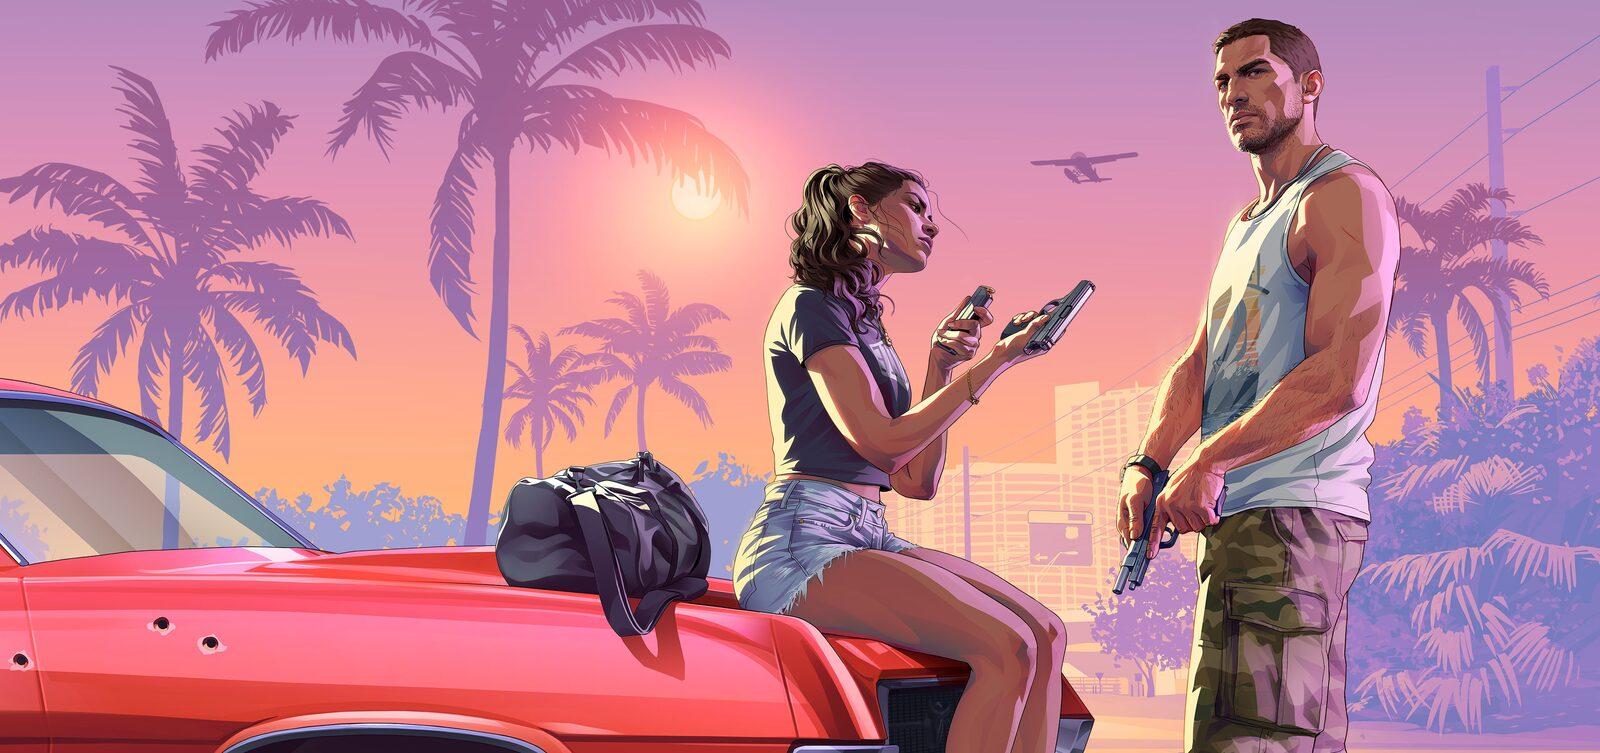
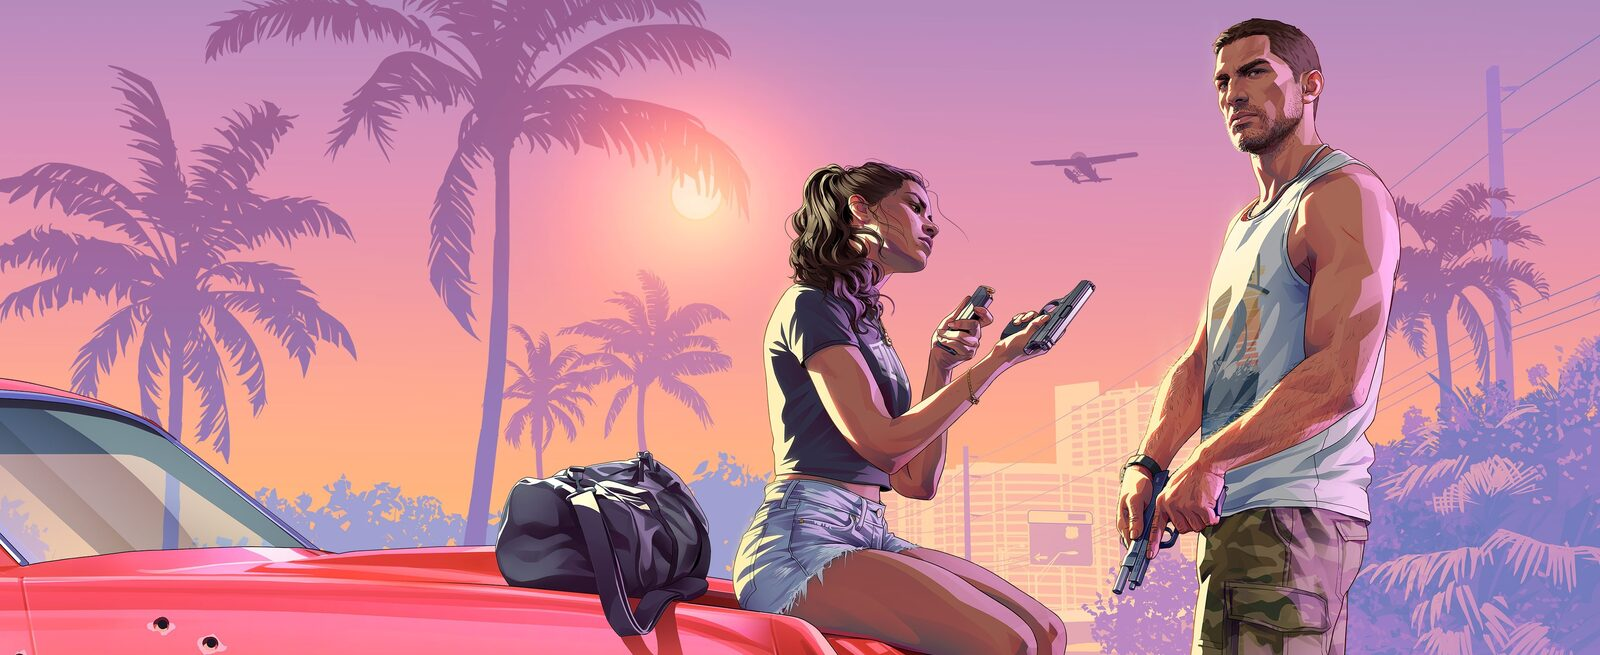
Héros : Lock and Load (voiture rouge) + compte à rebours GTA VI
Nouvelle clé d'art fournie par le propriétaire (Jason et Lucia assis sur la
voiture rouge, palmiers, coucher de soleil, avion) et compte à rebours dans
le héros lui-même.

Images
- public/gta6-jason-lucia-hero.jpg — panoramique 1600×655 (≈172 Ko) pour
  ordinateur/tablette ;
- public/gta6-jason-lucia-hero-portrait.jpg — recadrage portrait 900×1505
  (≈173 Ko) pour téléphone : le panoramique 2,4:1 ne peut pas être rogné
  directement en vertical sans perdre le sujet. Le portrait garde le
  soleil et les palmiers derrière le voile à gauche, et Lucia en amorce à
  droite sans recouvrir les CTA ;
- object-position affiné : bureau 30%, mobile 28%/22% sur le portrait.

Compte à rebours
- Bloc 4 chiffres (JRS / HRS / MIN / SEC) inséré entre le texte du héros et
  les CTA, dans le style HUD du site (cadre cyan, numéros tabulaires) ;
- cible = 19 novembre 2026 minuit, fuseau du visiteur ; tick à la seconde ;
- libellés FR (« Compte à rebours », « Sortie mondiale le 19 novembre… »)
  et EN ajoutés dans les dictionnaires ; fallback « DISPONIBLE MAINTENANT /
  OUT NOW » après la date ;
- utilise countdownParts et gameReleases déjà en place dans releasesData ;
  la bande « le plus attendu » reste là (elle suit la file automatique du
  calendrier), le compte à rebours du héros est dédié à GTA VI.

Vérifié : captures 1280×900 (EN+FR), 390×844 (EN+FR), vite build,
check:light-news, check:light-mobile-menu, check:nav, check:i18n,
check:large-screen verts.

diff --git a/src/pages/Home.jsx b/src/pages/Home.jsx
@@ -11,6 +11,7 @@ import '../home-live.css';
 import ScrollAutoplayVideo from '../components/ScrollAutoplayVideo';
 import { Arrow } from '../components/Arrow';
 import { AwaitedBand, clockOffset } from '../components/ReleasesCalendar';
+import { countdownParts, gameReleases } from '../releasesData';
 import { dailyNewsListing, editionDate } from '../news/daily/2026-11-18';
 import { viceHeroImage, viceHeroPortraitImage } from '../theme/viceTheme';
 
@@ -21,6 +22,21 @@ const HomeQuizBand = lazy(() => import('./HomeQuizBand'));
 // Le paramètre d'URL `?at=` (horloge simulée du bandeau « le plus attendu »)
 // est partagé avec la page calendrier complet via clockOffset().
 const CLOCK_OFFSET = clockOffset();
+// Compte à rebours GTA VI dans le héros : cible le 19 novembre 2026
+// (minuit, fuseau du visiteur — la date Rockstar n'ayant pas d'horaire annoncé).
+const GTA6_RELEASE = gameReleases.find((r) => r.slug === 'grand-theft-auto-vi');
+const useGta6Countdown = (offset) => {
+  const [now, setNow] = useState(() => new Date(Date.now() + offset));
+  useEffect(() => {
+    const t = window.setInterval(() => setNow(new Date(Date.now() + offset)), 1000);
+    return () => window.clearInterval(t);
+  }, [offset]);
+  if (!GTA6_RELEASE) return { parts: null, out: false };
+  const target = new Date(GTA6_RELEASE.year ?? 2026, (GTA6_RELEASE.month ?? 11) - 1, GTA6_RELEASE.day ?? 19, 0, 0, 0);
+  const out = now.getTime() >= target.getTime();
+  return { parts: out ? null : countdownParts(GTA6_RELEASE, now), out };
+};
+
 
 const reels = [
   { id: '91eqLm2Hy9k', label: 'REEL 01' },
@@ -209,6 +225,10 @@ export default function Home() {
   const labelParts = (t.home.featured.label1 || 'ÉPISODES À LA UNE').split(' / ');
   const labelTitle = labelParts[1] || labelParts[0] || 'ÉPISODES À LA UNE';
 
+  const gta = useGta6Countdown(0);
+  const ctaCountdown = t.home.countdown || {};
+  const ctaUnits = ctaCountdown.units || { days:'JRS', hours:'HRS', minutes:'MIN', seconds:'SEC' };
+
   return (
     <>
       <section className="hero" id="top">
@@ -235,6 +255,23 @@ export default function Home() {
           <p className="eyebrow"><span className="live-dot" /> {t.home.eyebrow}</p>
           <h1>{t.home.h1a}<br /><em>{t.home.h1b}</em></h1>
           <p className="hero-text">{t.home.heroText}</p>
+          {gta.parts || gta.out ? (
+            <div className={`hero-countdown${gta.out ? ' is-out' : ''}`} role="timer" aria-label={ctaCountdown.eyebrow || 'Countdown'}>
+              <p className="hero-countdown-eyebrow">
+                <span className="live-dot" aria-hidden="true" /> {ctaCountdown.eyebrow} · GTA VI
+              </p>
+              <div className="hero-countdown-grid">
+                {gta.out
+                  ? <strong className="hero-countdown-out">{ctaCountdown.out}</strong>
+                  : [['days', ctaUnits.days], ['hours', ctaUnits.hours], ['minutes', ctaUnits.minutes], ['seconds', ctaUnits.seconds]].map(([k, lbl]) => (
+                      <span className="hero-countdown-unit" key={k}>
+                        <b>{String(gta.parts[k]).padStart(2,'0')}</b><i>{lbl}</i>
+                      </span>
+                    ))}
+              </div>
+              <p className="hero-countdown-meta">{ctaCountdown.date}</p>
+            </div>
+          ) : null}
           {isLive && (
             <div className="hero-live-notice">
               <p className="hero-live-status" role="status"><span aria-hidden="true" /> {liveHeroCopy.status}</p>

diff --git a/src/styles.css b/src/styles.css
@@ -2007,12 +2007,11 @@ img{max-width:100%}
   [dir=\"rtl\"] .mobile-menu-hud{right:auto;left:0}
 
   .hero{padding:104px 0 92px}
-  /* Cadrage portrait du héros : Lucia décalée à droite, soleil et palmiers
-     derrière le voile à gauche. L'image fournie est un panoramique très large
-     (2,1:1) — tout cadrage vertical coupe forcément Jason ou la voiture, mais
-     il faut éviter l'effet « personnage excentré à droite » : ce point
-     d'accroche ramène assez de décor à gauche sans cacher Lucia. */
-  .hero-bg{object-position:30% 20%}
+  /* Cadrage portrait du héros : Lucia à droite, soleil et palmiers derrière
+     le voile à gauche, sac/voiture en bas. L'image fournie est un panoramique
+     très large (2,4:1) — aucun cadrage vertical ne peut garder les deux
+     personnages, mais le héros ne doit pas sembler vide à gauche. */
+  .hero-bg{object-position:28% 22%}
   /* 34px de plancher (au lieu de 36) : sous 375px de large, « TOUTE L’ACTU »
      ne tenait plus dans la colonne et le titre du héros passait à quatre
      lignes. */
@@ -2343,3 +2342,20 @@ img{max-width:100%}
 .search-result-card.is-finished h2,
 .search-result-card.is-finished p { color: var(--dim); }
 .nav-search-result.is-finished strong { color: var(--dim); }
+
+/* Compte à rebours GTA VI dans le héros — grille 4 chiffres, néon cyan sur
+   fond semi-transparent, comme les cadres HUD du reste du site. */
+.hero-countdown{margin-top:28px;max-width:560px}
+.hero-countdown-eyebrow{display:inline-flex;align-items:center;gap:10px;margin:0 0 12px;font:500 10px var(--mono);letter-spacing:.24em;text-transform:uppercase;color:var(--yellow);text-shadow:0 0 14px rgba(255,214,25,.25)}
+.hero-countdown-grid{display:grid;grid-template-columns:repeat(4,minmax(0,1fr));gap:10px}
+.hero-countdown-unit{padding:14px 8px 10px;text-align:center;background:rgba(5,6,15,.55);border:1px solid rgba(34,211,238,.35);box-shadow:inset 0 0 22px rgba(34,211,238,.05), 0 0 18px rgba(0,0,0,.4)}
+.hero-countdown-unit b{display:block;color:var(--cyan);font:800 clamp(28px,4.6vw,40px)/1 var(--display);letter-spacing:.02em;text-shadow:0 0 18px rgba(34,211,238,.45);font-variant-numeric:tabular-nums}
+.hero-countdown-unit i{display:block;margin-top:8px;color:var(--dim);font:9px var(--mono);letter-spacing:.18em;font-style:normal}
+.hero-countdown-out{grid-column:1/-1;padding:16px;color:var(--yellow);font:800 clamp(26px,4.4vw,36px)/1 var(--display);letter-spacing:.08em;text-align:center;text-shadow:0 0 18px rgba(255,214,25,.35);background:rgba(5,6,15,.55);border:1px solid rgba(255,214,25,.45)}
+.hero-countdown-meta{margin:10px 0 0;color:rgba(232,235,255,.6);font:10px var(--mono);letter-spacing:.16em;text-transform:uppercase}
+.hero-countdown.is-out .hero-countdown-meta{color:var(--yellow)}
+@media(max-width:800px){
+  .hero-countdown{margin-top:22px;max-width:none}
+  .hero-countdown-grid{gap:8px}
+  .hero-countdown-unit{padding:12px 4px 8px}
+}

diff --git a/src/i18n/translations.js b/src/i18n/translations.js
@@ -191,7 +191,7 @@ export const translations = {
       h1a: 'ALL THE NEWS,',
       h1b: 'GAMING, TECH & CINEMA.',
       heroText: 'Reviews, previews, e-sport, tech and pop culture — the show for the community that never stopped playing. Every drop, every round, every story worth playing.',
-      watchEpisodes: 'Watch the episodes',
+      watchEpisodes: 'Watch the episodes',countdown: { eyebrow: 'Countdown', title: 'Grand Theft Auto VI', date: 'Worldwide launch November 19, 2026 · PS5 / Xbox Series', units: { days:'DAYS', hours:'HRS', minutes:'MIN', seconds:'SEC' }, out:'OUT NOW' },
       enterShow: 'See the news',
       hud: { subs: 'YOUTUBE SUBS', community: 'IG COMMUNITY', reasons: 'REASONS TO PLAY', scroll: 'SCROLL' },
       ticker: ['GAMING', 'E-SPORT', 'CINEMA', 'TECH', 'POP CULTURE'],
@@ -660,7 +660,7 @@ export const translations = {
       eyebrow: 'L’émission gaming & pop culture de l’Algérie',
       h1a: 'TOUTE L’ACTU', h1b: 'GAMING, TECH ET CINÉMA.',
       heroText: 'Tests, avant-premières, e-sport, tech et pop culture — l’émission de la communauté qui n’a jamais arrêté de jouer. Chaque sortie, chaque round, chaque histoire qui mérite d’être jouée.',
-      watchEpisodes: 'Regarder les épisodes',
+      watchEpisodes: 'Regarder les épisodes',countdown: { eyebrow: 'Compte à rebours', title: 'Grand Theft Auto VI', date: 'Sortie mondiale le 19 novembre 2026 · PS5 / Xbox Series', units: { days:'JRS', hours:'HRS', minutes:'MIN', seconds:'SEC' }, out:'DISPONIBLE MAINTENANT' },
       enterShow: 'Voir les actus',
       hud: { subs: 'ABONNÉS YOUTUBE', community: 'COMMUNAUTÉ IG', reasons: 'RAISONS DE JOUER', scroll: 'DÉFILER' },
       ticker: ['GAMING', 'E-SPORT', 'CINÉMA', 'TECH', 'POP CULTURE'],

diff --git a/src/theme/viceTheme.js b/src/theme/viceTheme.js
@@ -12,18 +12,19 @@
  * par ce retrait.
  *
  * ⚠ Hommage NON OFFICIEL : Let's Play n'est affilié ni à Rockstar Games ni à
- * Take-Two. Les visuels sont fournis par le propriétaire du site (Jason et Lucia
- * devant la station-service, avant eux la vue nocturne de Vice City) : ce ne
- * sont pas des images générées, et il ne faut pas les remplacer par une vue de
- * jour produite pour un skin (essayé, puis retiré à sa demande).
+ * Take-Two. Les visuels sont fournis par le propriétaire du site (couple GTA 6
+ * sur la voiture rouge, avant la station-service puis la vue nocturne de Vice
+ * City) : ce ne sont pas des images générées, et il ne faut pas les remplacer
+ * par une vue de jour produite pour un skin (essayé, puis retiré à sa demande).
  *
  * Pour tout retirer : repointer `Home.jsx` sur `defaultHeroImage`, supprimer ce
  * fichier et `public/gta6-jason-lucia-hero.jpg`.
  */
 
 /**
- * Clé d'art du héros : Jason et Lucia devant la station-service, au crépuscule
- * (visuel fourni par le propriétaire du site). C'est l'image de communication
+ * Clé d'art du héros : Jason et Lucia assis sur la voiture rouge au coucher
+ * de soleil (visuel fourni par le propriétaire du site, version « Lock and
+ * Load » — palmiers, avion et sac de sport). C'est l'image de communication
  * de GTA 6, pas une capture de jeu.
  *
  * Le voile et la géométrie du héros sont ceux du site (voir `styles.css`,

diff --git a/src/i18n/translations-fr-site.js b/src/i18n/translations-fr-site.js
@@ -316,7 +316,7 @@ export const frenchSiteDictionary = {
     "h1a": "TOUTE L’ACTU",
     "h1b": "GAMING, TECH ET CINÉMA.",
     "heroText": "Tests, avant-premières, e-sport, tech et pop culture — l’émission de la communauté qui n’a jamais arrêté de jouer. Chaque sortie, chaque round, chaque histoire qui mérite d’être jouée.",
-    "watchEpisodes": "Regarder les épisodes",
+    "watchEpisodes": "Regarder les épisodes","countdown": {"eyebrow": "Compte à rebours","title": "Grand Theft Auto VI","date": "Sortie mondiale le 19 novembre 2026 · PS5 / Xbox Series","units": {"days":"JRS","hours":"HRS","minutes":"MIN","seconds":"SEC"},"out":"DISPONIBLE MAINTENANT"},
     "enterShow": "Voir les actus",
     "hud": {
       "subs": "ABONNÉS YOUTUBE",
